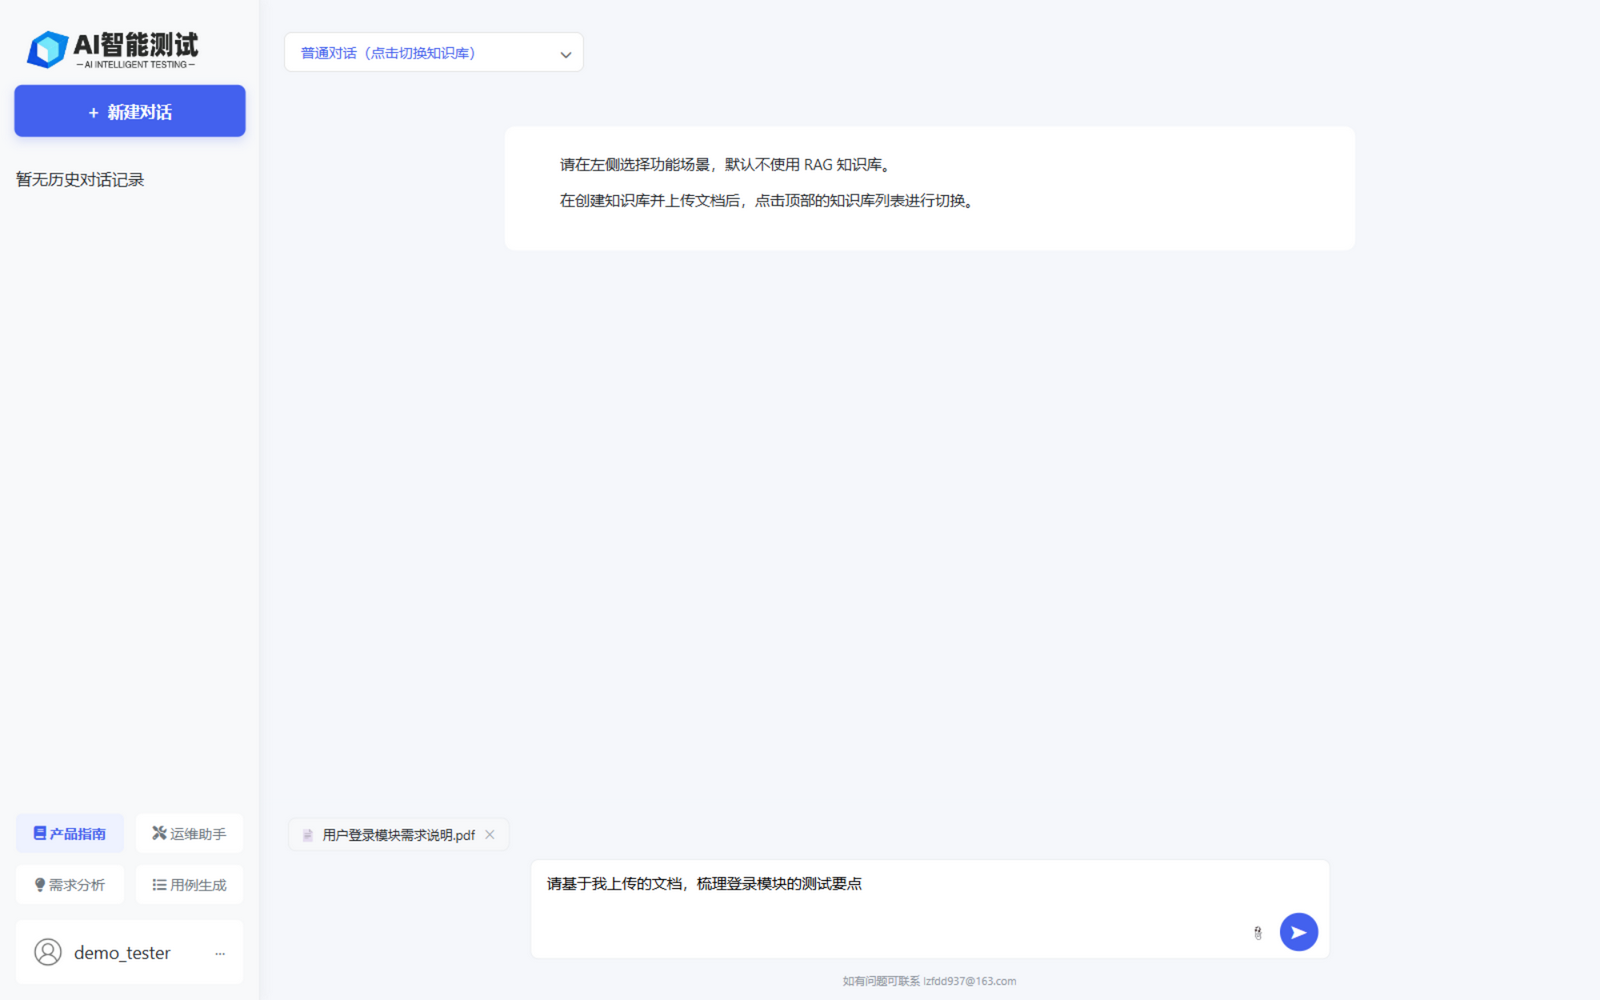
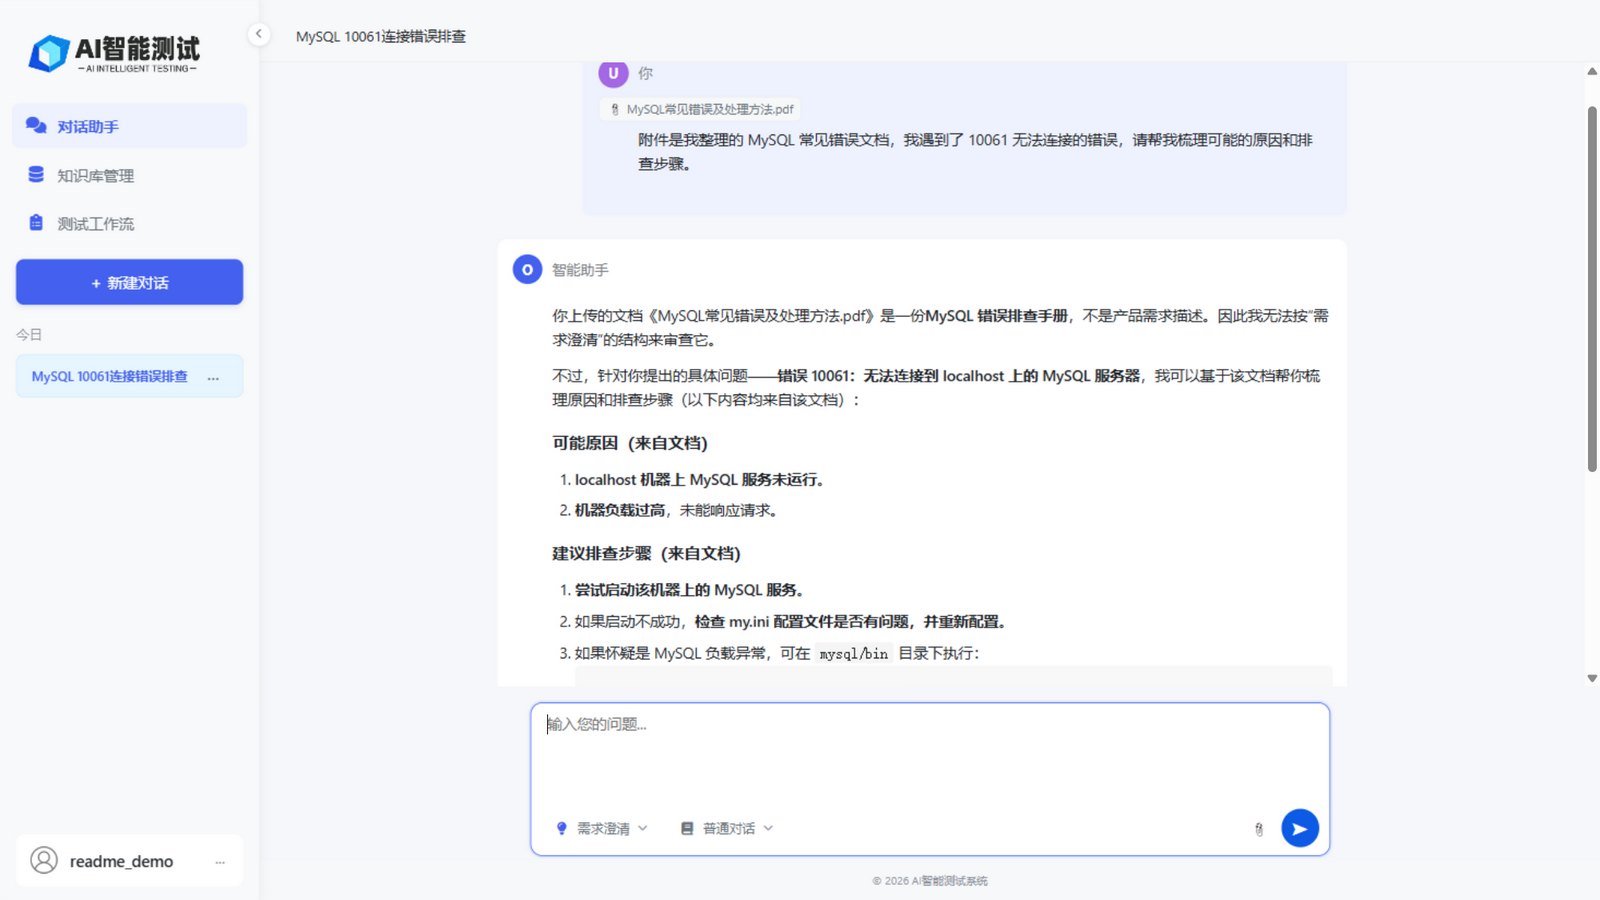
docs: README 对齐最新代码并用真实页面重制截图
- 聊天场景更正为需求澄清/产品指南/运维助手，用例生成入口改为测试工作流
- 环境要求 Python 3.11+（langgraph interrupt 依赖），配置示例对齐 .env.example
  （LLM_ENABLE_THINKING、WORKFLOW_LLM_MAX_TOKENS、WORKFLOW_CHECKPOINT_DB_PATH、
  CHROMA_DISTANCE_METRIC 默认 cosine 等）
- 页面路由补 /workflows，API 补工作流族与 CSV 导出；项目结构补 workflows/、tests/
- Roadmap 调整：v0.2 已完成项并入已实现，v0.2 改为检索质量评估
- 截图全部实拍重制：需求澄清(RAG 来源标注)、工作流人工确认/用例生成/覆盖报告、
  知识库管理、聊天附件；删除已被替代的 testcases.png
- README_EN.md 同步更新

diff --git a/README_EN.md b/README_EN.md
@@ -16,7 +16,7 @@ Recommended demo asset:
 docs/images/demo.gif
 
 Suggested flow:
-Upload PDF → Select Knowledge Base → Enter Requirement → Analyze → Generate Test Cases → Export
+Upload PDF → Select Knowledge Base → Requirement Clarification → Create Test Task → Human Review → Case Generation → Coverage Check → Export CSV
 
 Uncomment the next line once the asset is ready:
 ![Demo](docs/images/demo.gif)
@@ -28,13 +28,11 @@ Uncomment the next line once the asset is ready:
 
 AI Test Case Generation & Testing Assistant Platform is an open-source project for **software testing, test development, and AI-assisted QA**.
 
-The application is built with **FastAPI + LangChain + RAG + ChromaDB + LLM**. It allows users to upload PDF product or requirement documents, build a searchable knowledge base, retrieve relevant context, and use a large language model for:
+The application is built with **FastAPI + LangChain + LangGraph + RAG + ChromaDB + LLM**. It allows users to upload PDF product or requirement documents, build a searchable knowledge base, retrieve relevant context, and use a large language model for:
 
-- Requirement analysis and test strategy design
-- Test point identification
-- RAG-assisted test case generation
-- Product troubleshooting and manual Q&A
-- Structured testing workflow: requirement analysis → human review → test case generation → coverage check (LangGraph)
+- Scenario-based chat: requirement clarification, product guidance, and ops assistance, grounded in knowledge-base retrieval
+- A structured testing workflow: requirement analysis → human review → test case generation → coverage check (orchestrated by LangGraph, artifacts persisted per version)
+- CSV export of generated test cases
 - PDF upload, preview, and deletion
 - Multi-user conversations and knowledge-base isolation
 
@@ -46,16 +44,18 @@ The project focuses on reducing repetitive work in requirement understanding, pr
 
 | Feature | Description |
 | --- | --- |
-| 📄 PDF Knowledge Base | Upload product and requirement PDFs and build a searchable knowledge base |
-| 🔎 RAG Retrieval | Retrieve relevant document content and provide context to the LLM |
-| 💬 Chat Attachments | Attach a PDF while chatting: it is ingested into the knowledge base and included in retrieval for RAG conversations, or parsed directly as one-shot context for plain conversations |
-| 🧠 Requirement Analysis | Analyze requirements, test scope, risks, and acceptance criteria |
-| 🧪 Test Case Generation | Generate structured test cases using requirements and retrieved knowledge |
+| 📄 PDF Knowledge Base | Upload product and requirement PDFs; documents are parsed and embedded in the background to build a searchable knowledge base |
+| 🔎 RAG Retrieval | Retrieve relevant document content and inject it as context; multi-turn follow-ups go through query rewrite, and history is trimmed by both message count and token budget |
+| 💬 Scenario Chat | Three scenarios — Requirement Clarification / Product Guidance / Ops Assistant; with a knowledge base selected it runs RAG, without one it falls back to plain-chat prompts automatically |
+| 📎 Chat Attachments | Attach a PDF while chatting: it is ingested into the knowledge base and included in retrieval for RAG conversations, or parsed directly as one-shot context for plain conversations |
+| 🧩 Structured Testing Workflow | LangGraph orchestration: requirement analysis → human review → case generation → coverage check, with each stage persisted as versioned artifacts |
+| 🖱 Human-in-the-loop | The graph pauses after requirement analysis; edit the analysis before continuing. State is checkpointed to SQLite so runs survive disconnects |
+| ✅ Coverage Check | No LLM involved: set operations over requirement references plus RapidFuzz similarity for duplicate detection, with transparent statistics |
 | 📚 Product Assistant | Answer product usage and troubleshooting questions from product documentation |
 | 👤 Multi-user Isolation | Isolate conversations and knowledge bases by user |
 | 👥 Shared Knowledge Bases | Knowledge bases can be private or shared; shared ones are readable by all logged-in users |
-| ⚡ Streaming Response | Stream LLM output for a better interactive experience |
-| 📤 Test Case Export | Export generated test cases as CSV |
+| ⚡ Streaming Response | Stream LLM output for a better interactive experience; supports the DeepSeek thinking-mode switch |
+| 📤 Test Case Export | Export generated test cases as CSV (`utf-8-sig` with BOM, opens correctly in Excel) |
 
 ---
 
@@ -73,10 +73,12 @@ flowchart LR
     G --> H[Relevant Context]
     H --> I[LLM]
 
-    I --> J[Requirement Analysis]
-    I --> K[Test Point Identification]
-    I --> L[Test Case Generation]
-    I --> M[Product Troubleshooting]
+    I --> J[Requirement Clarification]
+    I --> K[Product Guidance]
+    I --> L[Ops Assistant]
+
+    F --> M[Structured Testing Workflow]
+    M --> N[Analysis → Human Review → Case Generation → Coverage Check]
 ```
 
 ---
@@ -90,7 +92,7 @@ START
   ↓
 load_requirement            # Deterministic node: load requirement and KB config
   ↓
-retrieve_knowledge          # Deterministic node: one RAG retrieval over the requirement text
+retrieve_knowledge          # Deterministic node: one RAG retrieval over the requirement text, persisted for review
   ↓
 requirement_analysis_agent  # Agent node: structured requirement analysis (JSON)
   ↓
@@ -105,15 +107,20 @@ END
 
 - **Artifacts as first-class objects**: analysis, case set and coverage report are persisted (`workflows` + `artifacts` tables), appended per version; human edits create a new version (`parent_artifact_id` links back), enabling "which analysis version produced these cases" traceability.
 - **Human-in-the-loop**: the graph pauses at `human_review` via `interrupt`; the UI allows editing the analysis JSON before resuming. State is persisted by a SQLite checkpointer so runs survive disconnects.
-- **Deterministic checks stay out of the LLM**: coverage is computed with set operations and character-similarity (RapidFuzz), avoiding noisy LLM self-grading.
+- **Deterministic checks stay out of the LLM**: coverage is computed with set operations and character-similarity (RapidFuzz), avoiding noisy LLM self-grading; the report states its measurement criteria.
+- **Dynamic case limit**: the number of generated cases is computed from the number of requirement points (`clamp(points × 3, 10, 40)`), so small requirements are not flooded and large ones are not truncated.
 
 ---
 
 ## 🖼 Screenshots
 
-| Requirement Analysis (RAG retrieval with source citations) | Test Case Generation (one-click CSV export) |
+| Requirement Clarification (RAG retrieval with source citations) | Testing Workflow (human review of the analysis) |
 | --- | --- |
-| ![Requirement Analysis](docs/images/chat_rag.png) | ![Test Case Generation](docs/images/testcases.png) |
+| ![Requirement Clarification](docs/images/chat_rag.png) | ![Human Review](docs/images/workflow_review.png) |
+
+| Test Case Generation (one-click CSV export) | Coverage Report |
+| --- | --- |
+| ![Test Case Generation](docs/images/workflow_cases.png) | ![Coverage Check](docs/images/workflow_coverage.png) |
 
 | Knowledge Base Management | Chat Attachments (one-shot PDF analysis in plain chat) |
 | --- | --- |
@@ -133,7 +140,7 @@ English: AI Testing · AI Test Case Generation · Software Testing · Test Autom
 
 ### Backend
 
-- Python
+- Python 3.11+ (3.12 recommended)
 - FastAPI
 - SQLAlchemy
 
@@ -171,6 +178,8 @@ The current repository example uses:
 
 LLM and embedding credentials, endpoints, and model parameters are kept separate.
 
+> DeepSeek thinking mode is disabled by default (`LLM_ENABLE_THINKING=false`) for faster responses and effective temperature; when enabled, reasoning tokens count against `max_tokens` and temperature has no effect, so `LLM_MAX_TOKENS` / `WORKFLOW_LLM_MAX_TOKENS` may need to be raised accordingly.
+
 ---
 
 ## 🚀 Run Locally
@@ -179,7 +188,7 @@ LLM and embedding credentials, endpoints, and model parameters are kept separate
 
 Prepare:
 
-- Python 3.10+ (3.12 recommended)
+- Python 3.11+ (3.12 recommended; the LangGraph human-review node does not run on 3.10)
 - MySQL or SQLite
 - An accessible LLM API
 - An accessible Embedding API
@@ -199,35 +208,32 @@ pip install -r requirements.txt
 
 ### 3. Configure Environment Variables
 
-Create a `.env` file in the project root.
+Copy `.env.example` from the project root to `.env` and adjust as needed. Key settings:
 
 ```env
 # Application
 APP_ENV=development
 SESSION_SECRET_KEY=dev-session-secret-change-me
 
-# Database (choose one)
-DATABASE_URL=
+# Database (DATABASE_URL takes precedence when set, e.g. sqlite:///./fast_test.db;
+# when empty, the connection string is built from the MySQL settings)
+# DATABASE_URL=
 MYSQL_USER=root
 MYSQL_PASSWORD=your_password
 MYSQL_HOST=localhost
 MYSQL_PORT=3306
 MYSQL_DATABASE=aitest_rag
 
-# LLM
+# LLM (DeepSeek)
 LLM_PROVIDER=deepseek
 LLM_MODEL=deepseek-v4-flash
 LLM_API_KEY=your_llm_api_key
 LLM_BASE_URL=https://api.deepseek.com
 LLM_TEMPERATURE=0.7
-LLM_MAX_TOKENS=4096
-LLM_TIMEOUT_CONNECT=10
-LLM_TIMEOUT_READ=120
-LLM_TIMEOUT_WRITE=30
-LLM_TIMEOUT_POOL=10
-LLM_MAX_RETRIES=2
+LLM_MAX_TOKENS=16384
+LLM_ENABLE_THINKING=false
 
-# Embedding
+# Embedding (Alibaba Cloud DashScope compatible endpoint)
 EMBEDDING_PROVIDER=openai
 EMBEDDING_MODEL=text-embedding-v4
 EMBEDDING_API_KEY=your_embedding_api_key
@@ -235,33 +241,32 @@ EMBEDDING_BASE_URL=https://dashscope.aliyuncs.com/compatible-mode/v1
 EMBEDDING_DIMENSIONS=1024
 EMBEDDING_ENCODING_FORMAT=float
 
-# Chroma
-CHROMA_DISTANCE_METRIC=l2
-
-# Retriever
+# Retrieval
 RETRIEVER_TOP_K=5
 RETRIEVER_CANDIDATE_K=10
-RETRIEVER_ENABLE_DISTANCE_FILTER=false
-RETRIEVER_DISTANCE_THRESHOLD=
+CHROMA_DISTANCE_METRIC=cosine
+
+# Workflow
+WORKFLOW_LLM_MAX_TOKENS=16384
+WORKFLOW_CHECKPOINT_DB_PATH=./data/langgraph_checkpoints.db
 
 # Storage
-RAG_DB_PATH=./chroma_db/local_rag_db
+RAG_DB_PATH=./chroma_db
 UPLOAD_DIR=./uploads
 TEMP_UPLOAD_DIR=./temp_uploads
 ```
 
 ### Configuration Notes
 
+- See [.env.example](.env.example) for the full list of settings and their defaults.
 - In development, if `DATABASE_URL` is not set, the application falls back to a connection string built from the MySQL settings.
-- In production, `SESSION_SECRET_KEY` must be explicitly configured.
-- In production, use a real database password instead of example/default values.
-- `LLM_MAX_TOKENS` controls the maximum LLM output tokens.
-- `LLM_TIMEOUT_*` values are in seconds.
-- `LLM_MAX_RETRIES` controls the number of LLM request retries.
+- In production, `SESSION_SECRET_KEY` must be explicitly configured, and the database must not use default credentials.
+- `LLM_MAX_TOKENS` controls the maximum LLM output tokens; `LLM_TIMEOUT_*` values are in seconds; `LLM_MAX_RETRIES` controls the number of LLM request retries.
+- `LLM_ENABLE_THINKING=false` (default) is non-thinking mode; when `true`, reasoning tokens count against `max_tokens` and temperature has no effect.
 - `EMBEDDING_DIMENSIONS` must match the vector dimension of existing Chroma collections.
-- `RETRIEVER_TOP_K` controls the final number of returned documents.
-- `RETRIEVER_CANDIDATE_K` controls the initial candidate retrieval size.
-- Distance filtering is enabled only when `RETRIEVER_ENABLE_DISTANCE_FILTER=true` and `RETRIEVER_DISTANCE_THRESHOLD` is configured.
+- `CHROMA_DISTANCE_METRIC` (cosine / l2) only takes effect when a collection is created; it does not affect existing collections.
+- Distance filtering is enabled only when `RETRIEVER_ENABLE_DISTANCE_FILTER=true` and `RETRIEVER_DISTANCE_THRESHOLD` is configured; the threshold meaning depends on the collection metric.
+- `WORKFLOW_LLM_MAX_TOKENS` caps the workflow structured output and must fit the complete case-set JSON.
 
 ### 4. Start the Application
 
@@ -271,8 +276,8 @@ uvicorn main:app --host 0.0.0.0 --port 8000 --reload
 
 ### 5. Open the Application
 
-- Home: `http://localhost:8000/`
 - Chat: `http://localhost:8000/chat`
+- Testing Workflow: `http://localhost:8000/workflows`
 - Knowledge Base: `http://localhost:8000/knowledge`
 - Swagger UI: `http://localhost:8000/docs`
 - ReDoc: `http://localhost:8000/redoc`
@@ -281,7 +286,7 @@ uvicorn main:app --host 0.0.0.0 --port 8000 --reload
 
 ## 🧪 Testing
 
-The project uses pytest for automated tests, covering authentication and authorization isolation, knowledge-base file flows, chat attachments, RAG retrieval authorization, LLM streaming, and background task processing.
+The project uses pytest for automated tests (139 tests currently passing), covering authentication and authorization isolation, knowledge-base file flows, chat attachments, RAG retrieval authorization, workflow state transitions and artifact versioning, and SSE event streams.
 
 Run all tests:
 
@@ -311,16 +316,19 @@ pytest tests/test_chat_authorization.py -k "test_user_cannot_read"
 /chat
 /knowledge
 /knowledge-detail?kb_id=...
+/workflows
 ```
 
 ### Main APIs
 
 ```text
-/api/chat
+/api/chat                    # SSE streaming chat
 /api/history
 /api/conversation/...
+/api/export/testcases        # CSV export from chat
 /api/knowledge-bases/...
 /api/files/{file_id}/preview
+/api/workflows/...           # test tasks: create / run events / human review / CSV export
 /logout
 ```
 
@@ -344,9 +352,12 @@ RAG_TestCases_Generator/
 ├── services/
 ├── static/
 ├── templates/
+├── tests/
 ├── utils/
+├── workflows/          # LangGraph workflow orchestration (state / nodes / graph)
 ├── config.py
 ├── main.py
+├── .env.example
 ├── requirements.txt
 └── README.md
 ```
@@ -358,13 +369,14 @@ RAG_TestCases_Generator/
 ### Implemented
 
 - [x] PDF Knowledge Base
-- [x] RAG Retrieval
+- [x] RAG Retrieval (multi-turn query rewrite, history trimming)
+- [x] Scenario Chat (Requirement Clarification / Product Guidance / Ops Assistant)
 - [x] Chat Attachments (knowledge-base ingest / one-shot plain-chat analysis)
-- [x] Requirement Analysis
-- [x] Test Strategy Design
-- [x] Test Point Identification
-- [x] AI Test Case Generation
-- [x] Product Troubleshooting
+- [x] Structured Requirement Analysis
+- [x] Testing Workflow (analysis → human review → case generation → coverage check)
+- [x] Human Review / Analysis Editing
+- [x] Test Case Artifacts and Versioning
+- [x] Deterministic Coverage Check
 - [x] User Conversations
 - [x] Knowledge Base Isolation
 - [x] Shared Knowledge Bases
@@ -373,12 +385,8 @@ RAG_TestCases_Generator/
 
 ### Roadmap
 
-#### v0.2 — Structured Testing Workflow
+#### v0.2 — Retrieval Quality
 
-- [x] Structured Requirement Analysis
-- [x] Requirement → Test Case Workflow
-- [x] Test Case Artifacts
-- [x] Test Case Versioning
 - [ ] RAG Retrieval Evaluation
 
 #### v0.3 — Test Automation
